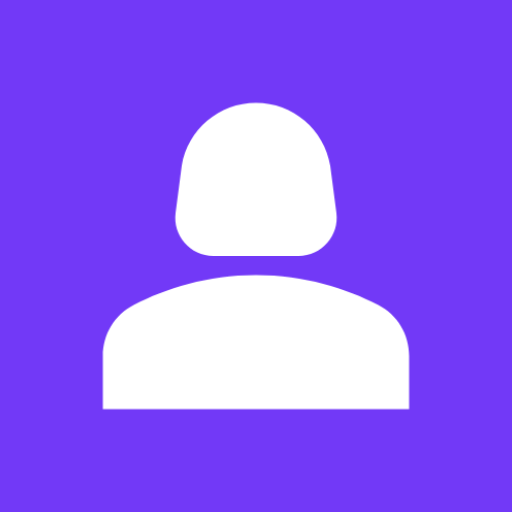
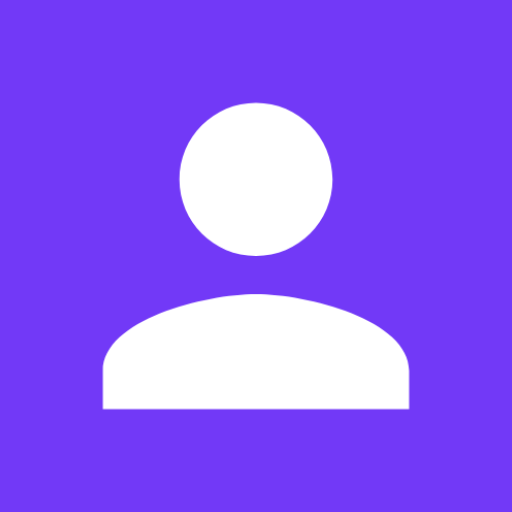
got images and gifs to display correctly

Changed region(s): [[0.1875, 0.5312, 0.8125, 0.7188], [0.5312, 0.2812, 0.6562, 0.5], [0.3438, 0.2812, 0.4688, 0.5]]

diff --git a/app/src/main/java/com/example/fishcenter/PostRecyclerViewAdapter.java b/app/src/main/java/com/example/fishcenter/PostRecyclerViewAdapter.java
@@ -9,14 +9,12 @@ import android.view.ViewGroup;
 import android.widget.ImageButton;
 import android.widget.ImageView;
 import android.widget.TextView;
-import android.widget.VideoView;
 
 import androidx.annotation.NonNull;
 import androidx.recyclerview.widget.RecyclerView;
 
 import com.bumptech.glide.Glide;
 import com.bumptech.glide.load.resource.bitmap.RoundedCorners;
-import com.bumptech.glide.request.target.Target;
 
 import java.util.ArrayList;
 import java.util.Arrays;
@@ -28,6 +26,8 @@ public class PostRecyclerViewAdapter extends RecyclerView.Adapter<PostRecyclerVi
     private ContentResolver contResolver;
     private Context con;
     private ArrayList<PostModel> posts;
+    private HashSet<String> imageMimeTypes = new HashSet<>(Arrays.asList("image/jpg","image/jpeg","image/png"));
+    private HashSet<String> videoMimeTypes = new HashSet<>(Arrays.asList("video/3gp","video/mov","video/avi","video/wmv","video/mp4","video/mpeg"));
     public PostRecyclerViewAdapter(Context con, ArrayList<PostModel> posts) {
         this.con = con;
         this.posts = posts;
@@ -44,18 +44,27 @@ public class PostRecyclerViewAdapter extends RecyclerView.Adapter<PostRecyclerVi
 
     @Override
     public void onBindViewHolder(@NonNull PostViewHolder holder, int position) {
-        holder.userProfilePicture.setImageURI(posts.get(position).getProfilePhoto());
+        System.out.println();
+        byte[] photoBytes = posts.get(position).getProfilePhoto();
+        Glide.with(con).asBitmap().load(photoBytes).placeholder(R.drawable.ic_baseline_person_128_white).transform(new RoundedCorners(10)).into(holder.userProfilePicture);
         holder.userNickname.setText(posts.get(position).getNickname());
         holder.datePosted.setText(posts.get(position).getDatePosted());
         holder.postTitle.setText(posts.get(position).getTitle());
         Uri uri = posts.get(position).getMedia();
+
         if(uri != null) {
-           Glide.with(con).load(uri).transform(new RoundedCorners(10)).into(holder.postImage);
-           Glide.with(con).asGif().load(uri).transform(new RoundedCorners(10)).into(holder.postGif);
-           holder.postVideo.setVideoURI(uri);
+
+               //Glide.with(con).load(uri).transform(new RoundedCorners(10)).into(holder.postImage);
+
+           Glide.with(con).load(uri).thumbnail().transform(new RoundedCorners(10)).into(holder.postImageAndGif);
+
+
+           // Glide.with(con).asGif().load(uri).transform(new RoundedCorners(10)).into(holder.postGif);
+
         }
         holder.postBody.setText(posts.get(position).getBody());
-        holder.postLikes.setText(posts.get(position).getNumLikes());
+       // String likes = "Likes: " + posts.get(position).getNumLikes();
+        //holder.postLikes.setText(likes);
     }
 
 
@@ -70,9 +79,9 @@ public class PostRecyclerViewAdapter extends RecyclerView.Adapter<PostRecyclerVi
         private TextView userNickname;
         private TextView datePosted;
         private TextView postTitle;
-        private ImageView postImage;
+        private ImageView postImageAndGif;
         private GifImageView postGif;
-        private VideoView postVideo;
+        private ImageView postVideoThumbnail;
         private TextView postBody;
         private ImageButton likesButton;
         private TextView postLikes;
@@ -83,12 +92,11 @@ public class PostRecyclerViewAdapter extends RecyclerView.Adapter<PostRecyclerVi
             userNickname = itemView.findViewById(R.id.userNickname);
             datePosted = itemView.findViewById(R.id.datePosted);
             postTitle = itemView.findViewById(R.id.postTitle);
-            postImage = itemView.findViewById(R.id.postImage);
             postGif = itemView.findViewById(R.id.postGif);
-            postVideo = itemView.findViewById(R.id.postVideo);
+            postImageAndGif = itemView.findViewById(R.id.imageAndGifView);
             postBody = itemView.findViewById(R.id.postBody);
-            likesButton = itemView.findViewById(R.id.likesButton);
-            postLikes = itemView.findViewById(R.id.postLikes);
+            //likesButton = itemView.findViewById(R.id.likesButton);
+            //postLikes = itemView.findViewById(R.id.postLikes);
         }
     }
 

diff --git a/app/src/main/java/com/example/fishcenter/MainPageActivity.java b/app/src/main/java/com/example/fishcenter/MainPageActivity.java
@@ -178,10 +178,10 @@ public class MainPageActivity extends AppCompatActivity {
                             public void onSuccess(Uri uriMedia) {
                                 // the post had media associated with it and profile picture is fetched below
                                 StorageReference storageRedProfPic = firebaseStorage.getReference().child("/profilePictures/" + userId + "/");
-                                storageRedProfPic.getDownloadUrl().addOnSuccessListener(new OnSuccessListener<Uri>() {
+                                storageRedProfPic.getBytes(Long.MAX_VALUE).addOnSuccessListener(new OnSuccessListener<byte[]>() {
                                     @Override
-                                    public void onSuccess(Uri uriPhoto) {
-                                        PostModel post = new PostModel(getApplicationContext(), title, body, uriPhoto, nickname, postUploadDate, likes, uriMedia);
+                                    public void onSuccess(byte[] photoBytes) {
+                                        PostModel post = new PostModel(getApplicationContext(), title, body, photoBytes, nickname, postUploadDate, likes, uriMedia);
                                         posts.add(post);
                                     }
                                 });
@@ -191,10 +191,10 @@ public class MainPageActivity extends AppCompatActivity {
                             public void onFailure(@NonNull Exception e) {
                                 // the post did not have any media associated with it and profile picture is fetched below
                                 StorageReference storageRedProfPic = firebaseStorage.getReference().child("/profilePictures/" + userId + "/");
-                                storageRedProfPic.getDownloadUrl().addOnSuccessListener(new OnSuccessListener<Uri>() {
+                                storageRedProfPic.getBytes(Long.MAX_VALUE).addOnSuccessListener(new OnSuccessListener<byte[]>() {
                                     @Override
-                                    public void onSuccess(Uri uriPhoto) {
-                                        PostModel post = new PostModel(getApplicationContext(), title, body, uriPhoto, nickname, postUploadDate, likes, null);
+                                    public void onSuccess(byte[] photoBytes) {
+                                        PostModel post = new PostModel(getApplicationContext(), title, body, photoBytes, nickname, postUploadDate, likes, null);
                                         posts.add(post);
                                     }
                                 });

diff --git a/app/src/main/java/com/example/fishcenter/PostModel.java b/app/src/main/java/com/example/fishcenter/PostModel.java
@@ -11,7 +11,7 @@ import androidx.recyclerview.widget.RecyclerView;
 public class PostModel extends RecyclerView {
     private String title;
     private String body;
-    private Uri profilePhoto;
+    private byte[] profilePhoto;
     private String nickname;
     private String postUploadDate;
     private String numLikes;
@@ -30,7 +30,7 @@ public class PostModel extends RecyclerView {
         super(context, attrs, defStyleAttr);
     }
 
-    public PostModel(@NonNull Context context, String title, String body, Uri profilePhoto, String nickname, String postUploadDate, String numLikes, Uri media) {
+    public PostModel(@NonNull Context context, String title, String body, byte[] profilePhoto, String nickname, String postUploadDate, String numLikes, Uri media) {
         super(context);
         this.title = title;
         this.body = body;
@@ -41,7 +41,7 @@ public class PostModel extends RecyclerView {
         this.media = media;
     }
 
-    public PostModel(@NonNull Context context, @Nullable AttributeSet attrs, String title, String body, Uri profilePhoto, String postUploadDate, String nickname, String numLikes, Uri media) {
+    public PostModel(@NonNull Context context, @Nullable AttributeSet attrs, String title, String body, byte[] profilePhoto, String postUploadDate, String nickname, String numLikes, Uri media) {
         super(context, attrs);
         this.title = title;
         this.body = body;
@@ -52,7 +52,7 @@ public class PostModel extends RecyclerView {
         this.media = media;
     }
 
-    public PostModel(@NonNull Context context, @Nullable AttributeSet attrs, int defStyleAttr, String title, String body, Uri profilePhoto, String nickname, String postUploadDate, String numLikes, Uri media) {
+    public PostModel(@NonNull Context context, @Nullable AttributeSet attrs, int defStyleAttr, String title, String body, byte[] profilePhoto, String nickname, String postUploadDate, String numLikes, Uri media) {
         super(context, attrs, defStyleAttr);
         this.title = title;
         this.body = body;
@@ -71,7 +71,7 @@ public class PostModel extends RecyclerView {
         return body;
     }
 
-    public Uri getProfilePhoto() {
+    public byte[] getProfilePhoto() {
         return profilePhoto;
     }
 

diff --git a/app/src/main/java/com/example/fishcenter/RegisterActivity.java b/app/src/main/java/com/example/fishcenter/RegisterActivity.java
@@ -4,7 +4,6 @@ import static android.content.ContentValues.TAG;
 
 import android.content.ContentResolver;
 import android.content.Intent;
-import android.graphics.drawable.Drawable;
 import android.net.Uri;
 import android.os.Bundle;
 import android.text.Spannable;
@@ -58,7 +57,6 @@ public class RegisterActivity extends AppCompatActivity {
     private InputMethodManager keyboard;
     private FirebaseStorage firebaseStorage;
     private Uri defaultProfilePicture;
-    private ContentResolver contResolver;
 
     protected void onCreate(Bundle savedInstanceState) {
         super.onCreate(savedInstanceState);
@@ -110,7 +108,7 @@ public class RegisterActivity extends AppCompatActivity {
         userAlreadyRegistered.setTextSize(16);
         userAlreadyRegistered.setBackground(getDrawable(R.drawable.layout_background_rounded_corners_toggle_10_gray_opacity_30_to_transparent));
         textLinearLayout.addView(userAlreadyRegistered);
-        int profilePicId = R.drawable.img_profile_pic_white_default_foreground;
+        int profilePicId = R.mipmap.img_profile_pic_white_default_round;
         defaultProfilePicture = Uri.parse(ContentResolver.SCHEME_ANDROID_RESOURCE + "://" + getResources().getResourcePackageName(profilePicId) + "/" + getResources().getResourceTypeName(profilePicId) + "/" + getResources().getResourceEntryName(profilePicId));
 
 
